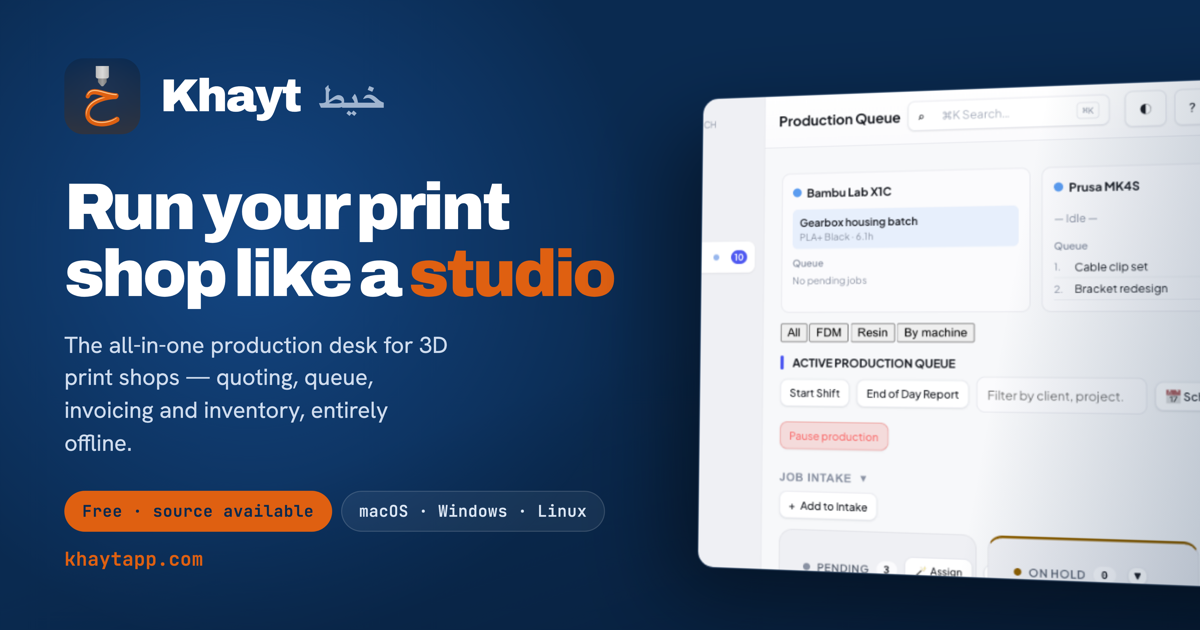
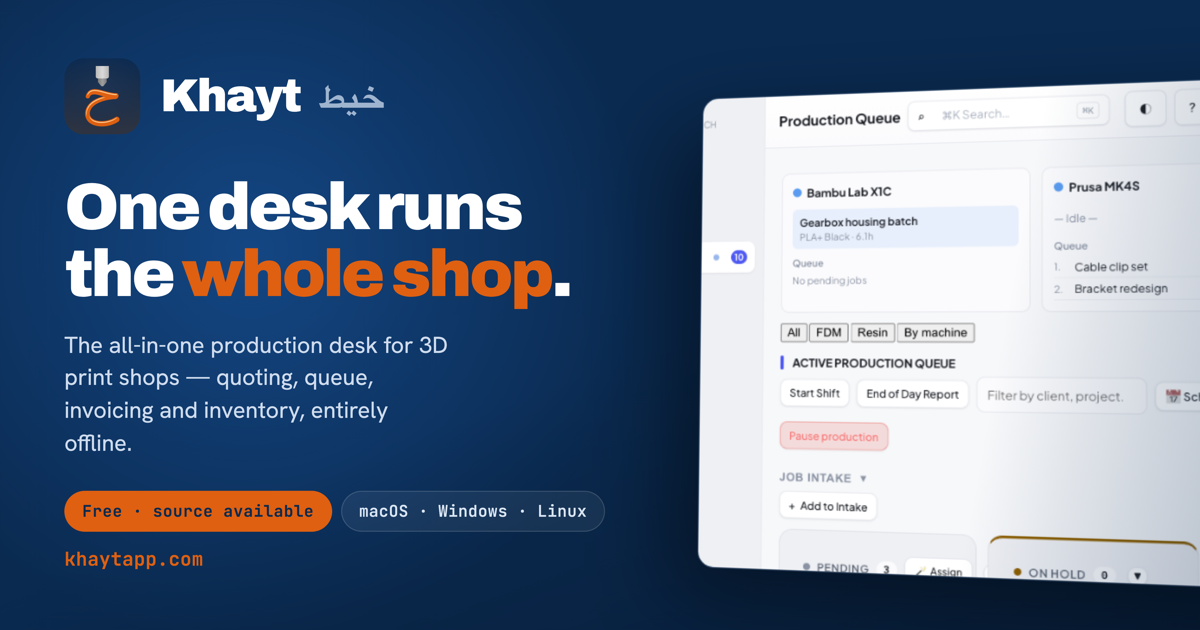
The share card said a headline the page no longer has
og-card.html still read "Run your print shop like a studio" — the line the
home page redesign replaced. For a project whose distribution is people
posting links in maker subreddits and Discords, the card is often the only
thing a stranger sees, so it was advertising copy that exists nowhere.

Card and page now agree. Regenerated with scripts/make-og.js, which exists for
exactly this and says so: run it when the card's words change, and commit the
PNG.

Nothing else needed doing: the card was already drawn on the icon's navy, and
every page's theme-color was already #0a2a50 — both were ahead of the site and
now match it rather than contradicting it.

Changed region(s): [[0.0617, 0.2714, 0.5242, 0.4825]]

diff --git a/scripts/og-card.html b/scripts/og-card.html
@@ -127,7 +127,7 @@
     <div class="word">Khayt <span class="ar">خيط</span></div>
   </div>
 
-  <h1>Run your print shop like a <span class="hl">studio</span></h1>
+  <h1>One desk runs the <span class="hl">whole shop</span>.</h1>
   <p class="sub">The all-in-one production desk for 3D print shops — quoting, queue, invoicing and inventory, entirely offline.</p>
 
   <div class="foot">
